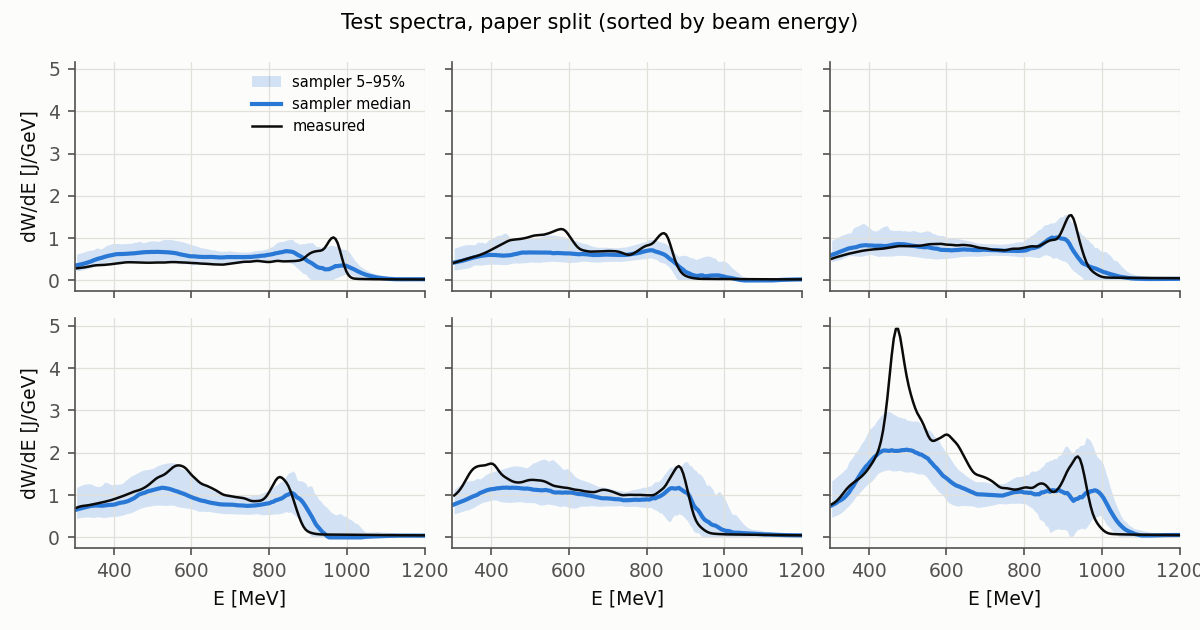
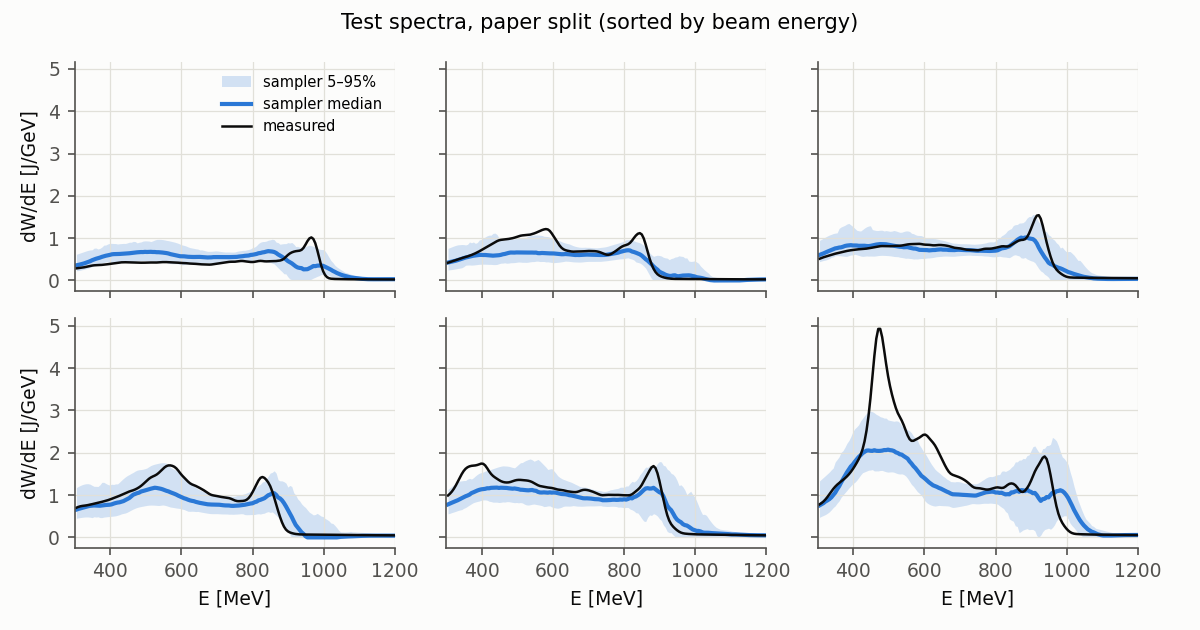
Fix clipped 1200 MeV tick in spectra figures; check all Stage 1 figures
Pad the right margin of the spectra grid, and apply one fit check to every
Stage 1 figure. The check ignores tick labels outside the axis range, which
matplotlib keeps but never draws.

Claude-Session: https://claude.ai/code/session_01APk2cy7i9J7sxiUNnCr4Qo

Changed region(s): [[0.0617, 0.5127, 1.0, 0.9651], [0.0617, 0.0905, 0.9867, 0.4825], [0.185, 0.1206, 0.3392, 0.2111]]

diff --git a/scripts/run_stage1.py b/scripts/run_stage1.py
@@ -95,6 +95,28 @@ def evaluate(name, d, tr, te, args):
     return res, preds, Yte, Wte
 
 
+def check_fits(fig, name):
+    """Raise if any drawn text (titles, axis labels, tick labels, legends) falls outside the saved image."""
+    fig.canvas.draw()
+    fb = fig.bbox
+    texts, ticklabels = [], set()
+    for ax in fig.axes:
+        for axis in (ax.xaxis, ax.yaxis):
+            lo, hi = sorted(axis.get_view_interval())
+            for tick in axis.get_major_ticks():
+                ticklabels.add(id(tick.label1))
+                if lo - 1e-9 <= tick.get_loc() <= hi + 1e-9:   # matplotlib only draws ticks inside the view
+                    texts.append(tick.label1)
+    texts += [t for t in fig.findobj(lambda a: hasattr(a, "get_text") and hasattr(a, "get_window_extent"))
+              if id(t) not in ticklabels]
+    for t in texts:
+        if not (t.get_visible() and t.get_text().strip()):
+            continue
+        bb = t.get_window_extent()
+        if bb.x0 < fb.x0 - 1 or bb.x1 > fb.x1 + 1 or bb.y0 < fb.y0 - 1 or bb.y1 > fb.y1 + 1:
+            raise RuntimeError(f"text {t.get_text()!r} is clipped in {name}")
+
+
 def plots(name, d, te, preds, Yte, Wte):
     import matplotlib
     matplotlib.use("Agg")
@@ -116,7 +138,8 @@ def plots(name, d, te, preds, Yte, Wte):
     ax.set(xlim=(lo, hi), ylim=(lo, hi), xlabel="measured beam energy [J]", ylabel="predicted beam energy [J]",
            title=f"Beam energy, {name} split")
     ax.legend(frameon=False, fontsize=8, loc="upper left")
-    fig.tight_layout(); fig.savefig(OUT / f"beam_energy_{name}.png", dpi=150); plt.close(fig)
+    fig.tight_layout(); check_fits(fig, f"beam_energy_{name}.png")
+    fig.savefig(OUT / f"beam_energy_{name}.png", dpi=150); plt.close(fig)
     # 2) example spectra across the beam-energy range
     order = np.argsort(Wte); pick = order[np.linspace(0, len(order) - 1, 6).astype(int)]
     fig, axs = plt.subplots(2, 3, figsize=(8, 4.2), sharex=True, sharey=True)
@@ -126,11 +149,13 @@ def plots(name, d, te, preds, Yte, Wte):
         ax.plot(E, np.median(P[:, i], 0), color=blue, label="sampler median")
         ax.plot(E, Yte[i], color=ink, lw=1.2, label="measured")
         ax.set_xlim(300, 1200)
+        ax.set_xticks([400, 600, 800, 1000, 1200])
     for ax in axs[1]: ax.set_xlabel("E [MeV]")
     for ax in axs[:, 0]: ax.set_ylabel("dW/dE [J/GeV]")
     axs[0, 0].legend(frameon=False, fontsize=7)
     fig.suptitle(f"Test spectra, {name} split (sorted by beam energy)", fontsize=10)
-    fig.tight_layout(); fig.savefig(OUT / f"spectra_{name}.png", dpi=150); plt.close(fig)
+    fig.tight_layout(rect=(0, 0, 0.985, 1)); check_fits(fig, f"spectra_{name}.png")
+    fig.savefig(OUT / f"spectra_{name}.png", dpi=150); plt.close(fig)
 
 
 def plot_shap(shap):
@@ -142,12 +167,7 @@ def plot_shap(shap):
     fig.suptitle("What drives beam energy", fontsize=10, x=0.02, ha="left")
     ax.set_title("time split, training shots", fontsize=8, color="#52514e", loc="left")
     fig.tight_layout()
-    fig.canvas.draw()  # check every text element fits inside the figure
-    fb = fig.bbox
-    for t in [fig._suptitle, ax.title, ax.xaxis.label, *ax.get_yticklabels()]:
-        bb = t.get_window_extent()
-        if bb.x0 < fb.x0 - 1 or bb.x1 > fb.x1 + 1 or bb.y1 > fb.y1 + 1:
-            raise RuntimeError(f"text {t.get_text()!r} is clipped in shap_beam_energy.png")
+    check_fits(fig, "shap_beam_energy.png")
     fig.savefig(OUT / "shap_beam_energy.png", dpi=150); plt.close(fig)
 
 
